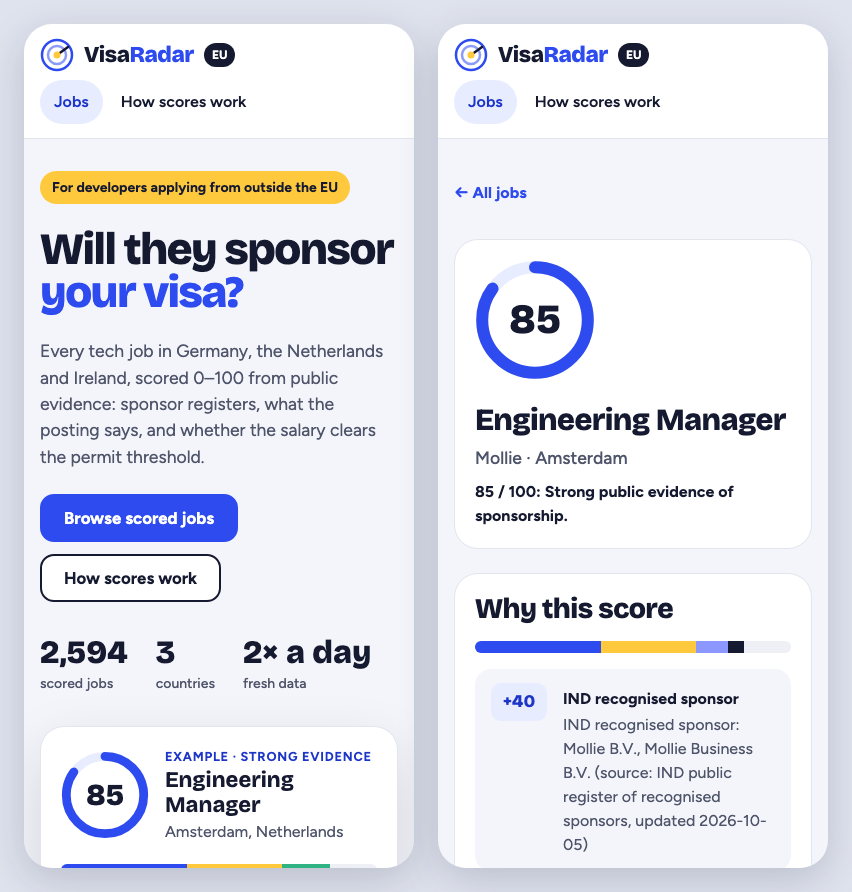
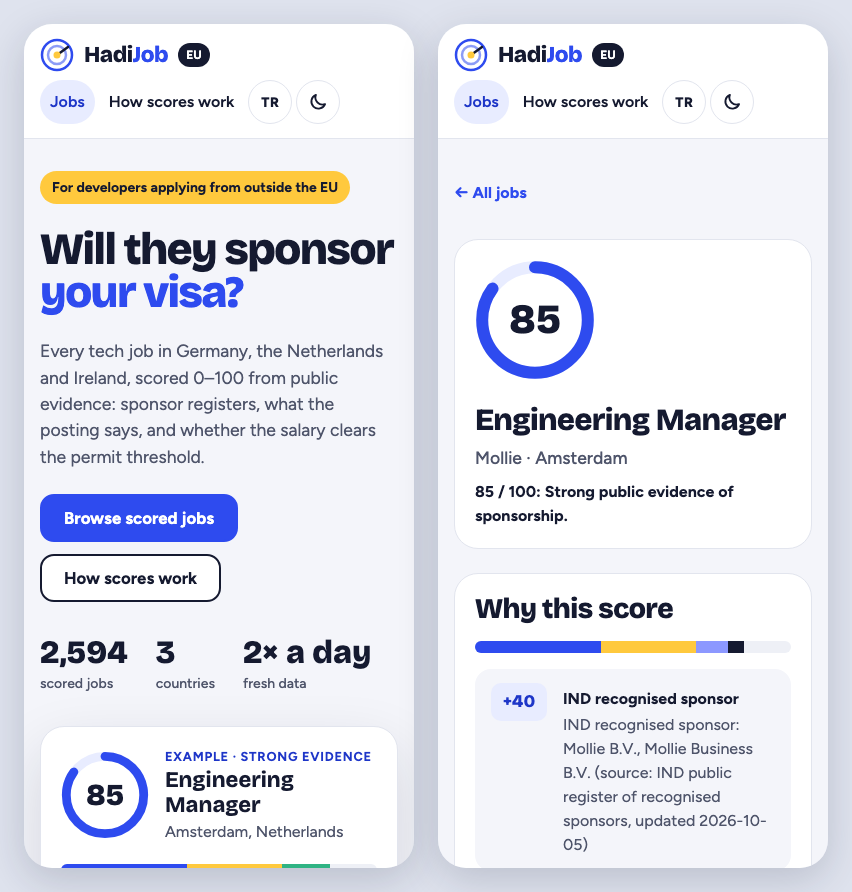
docs: rename the showcase to HadiJob with new screenshots

diff --git a/README.md b/README.md
@@ -2,11 +2,13 @@
 
 <img src=".github/assets/logo.svg" alt="" width="72">
 
-# VisaRadar
+# HadiJob
 
 **How likely is this EU tech job to sponsor your visa?**
 
 Every tech job in Germany, the Netherlands and Ireland, scored 0–100 for visa sponsorship, with the public evidence behind each score.
+
+_"Hadi!" is Turkish for "come on, let's go"._
 
 ![TypeScript](https://img.shields.io/badge/TypeScript-strict-3178c6?logo=typescript&logoColor=white)
 ![Node](https://img.shields.io/badge/Node-24-5fa04e?logo=nodedotjs&logoColor=white)
@@ -29,7 +31,7 @@ Every tech job in Germany, the Netherlands and Ireland, scored 0–100 for visa 
 
 Developers outside the EU lose weeks applying to roles that turn out not to sponsor visas. Job boards either ignore sponsorship or rely on what employers say about themselves.
 
-VisaRadar checks **public evidence** instead: government sponsor registers, what the posting itself says, and whether the salary clears the work-permit threshold. It turns that into a score you can read in a second and verify in a click.
+HadiJob checks **public evidence** instead: government sponsor registers, what the posting itself says, and whether the salary clears the work-permit threshold. It turns that into a score you can read in a second and verify in a click.
 
 <img src=".github/assets/job.png" alt="Job page: score 85 with every piece of evidence and its weight" width="820">
 
@@ -147,7 +149,7 @@ From a full pipeline run on 2026-11-01:
 - [x] Ingestion, IND register and company matching
 - [x] Explainable scoring, dedup, RSS feeds and the static site
 - [x] Automated pipeline and deploys, end-to-end smoke test
-- [x] VisaRadar redesign with light and dark themes
+- [x] HadiJob redesign with light and dark themes
 - [ ] Public launch on its own domain
 - [ ] More countries and sponsor registers
 - [ ] Accounts, saved searches and email digests
